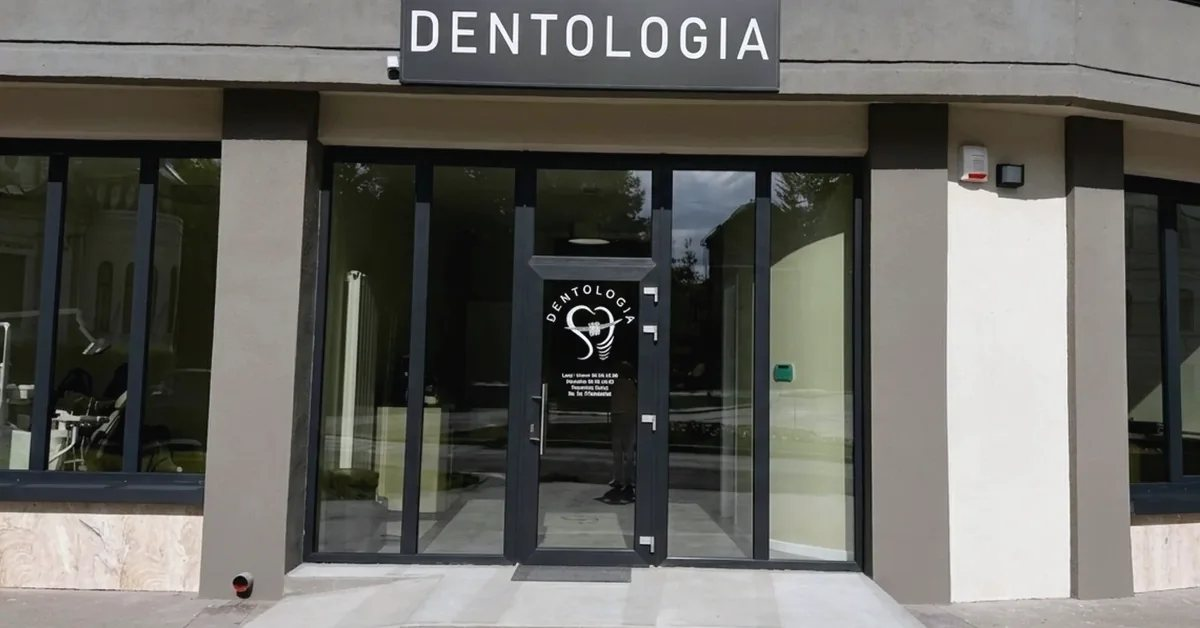
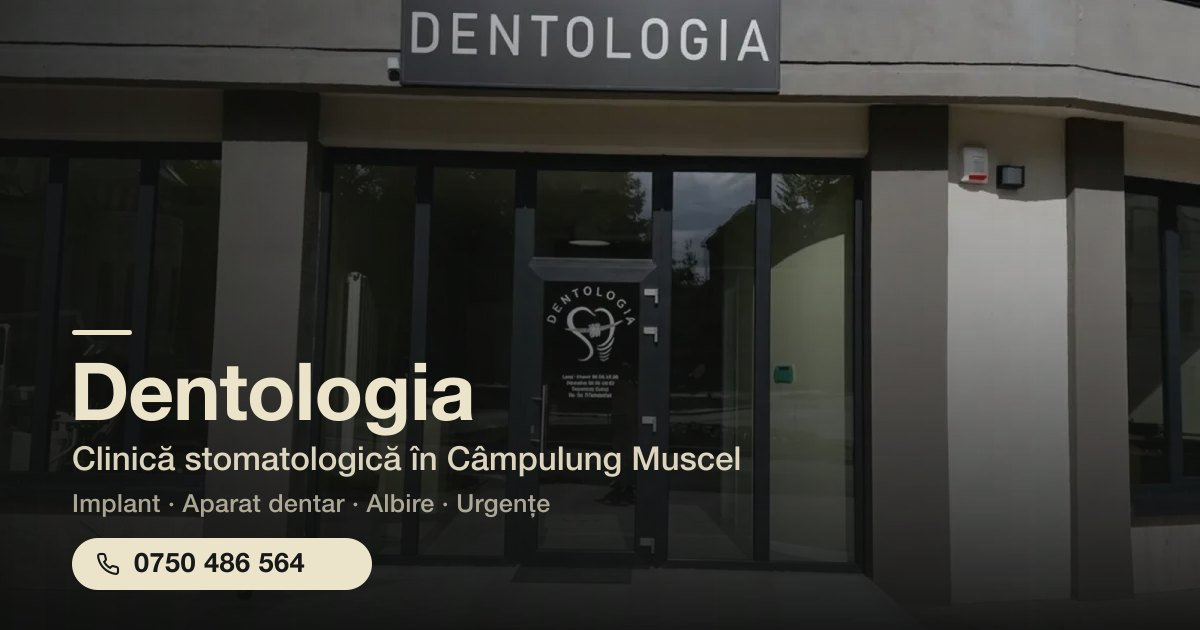
Redesign OG card: storefront background, gradient, brand text + phone
The social share image was a bare storefront crop. Now it's a designed
card — the same real storefront photo as background, a brand gradient
for legibility, and Dentologia / tagline / services / a 0750 486 564
call-to-action pill on top. Photo underneath untouched (gradient+text
layer only). Built in the sharp pipeline; JPG for WhatsApp compatibility.

diff --git a/src/lib/metadata.ts b/src/lib/metadata.ts
@@ -21,8 +21,8 @@ type PageMetadataOptions = {
 const OG_IMAGE = {
   url: `${CLINIC.url}/photos/og-storefront.jpg`,
   width: 1200,
-  height: 628,
-  alt: `Intrarea clinicii ${CLINIC.name}, ${CLINIC.address.city}`,
+  height: 630,
+  alt: `${CLINIC.name} — clinică stomatologică în ${CLINIC.address.city} Muscel`,
 } as const;
 
 export function generatePageMetadata({
